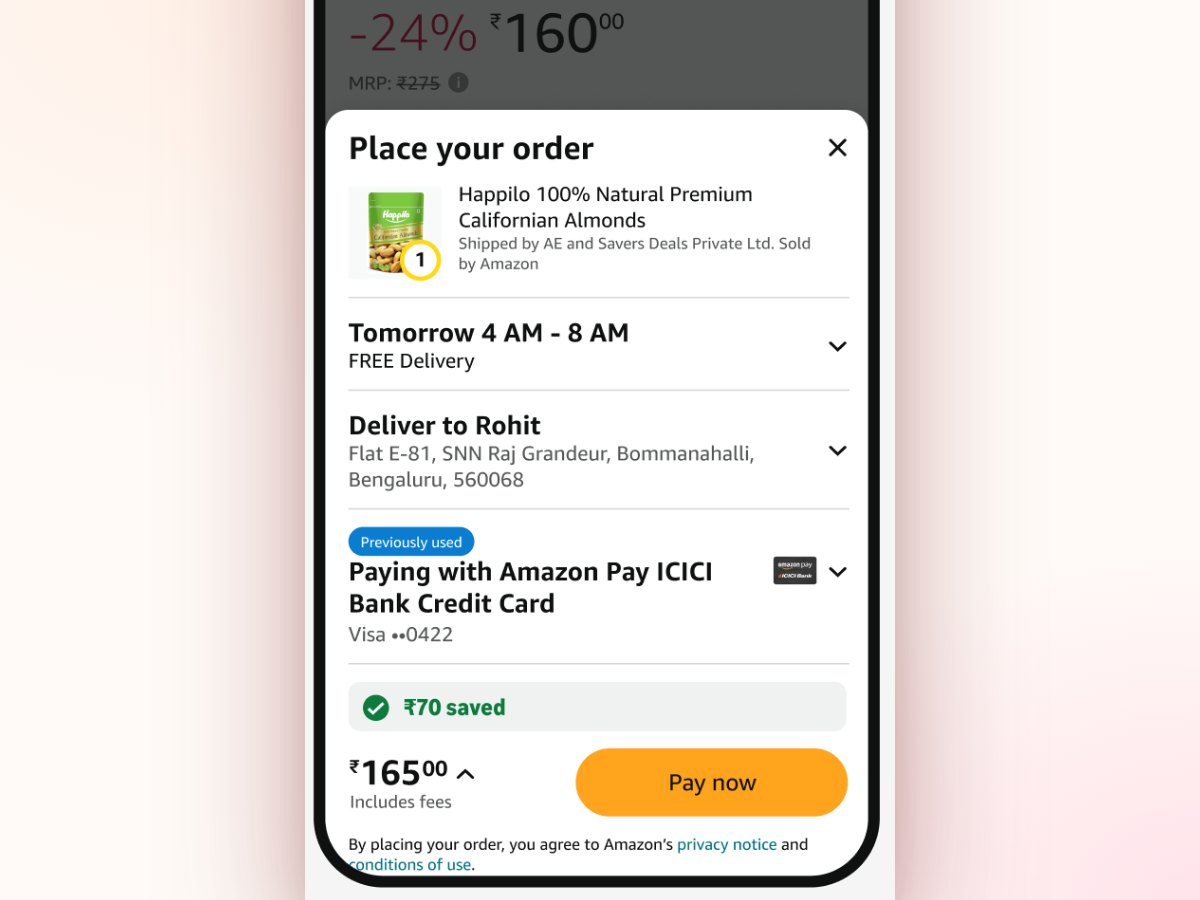
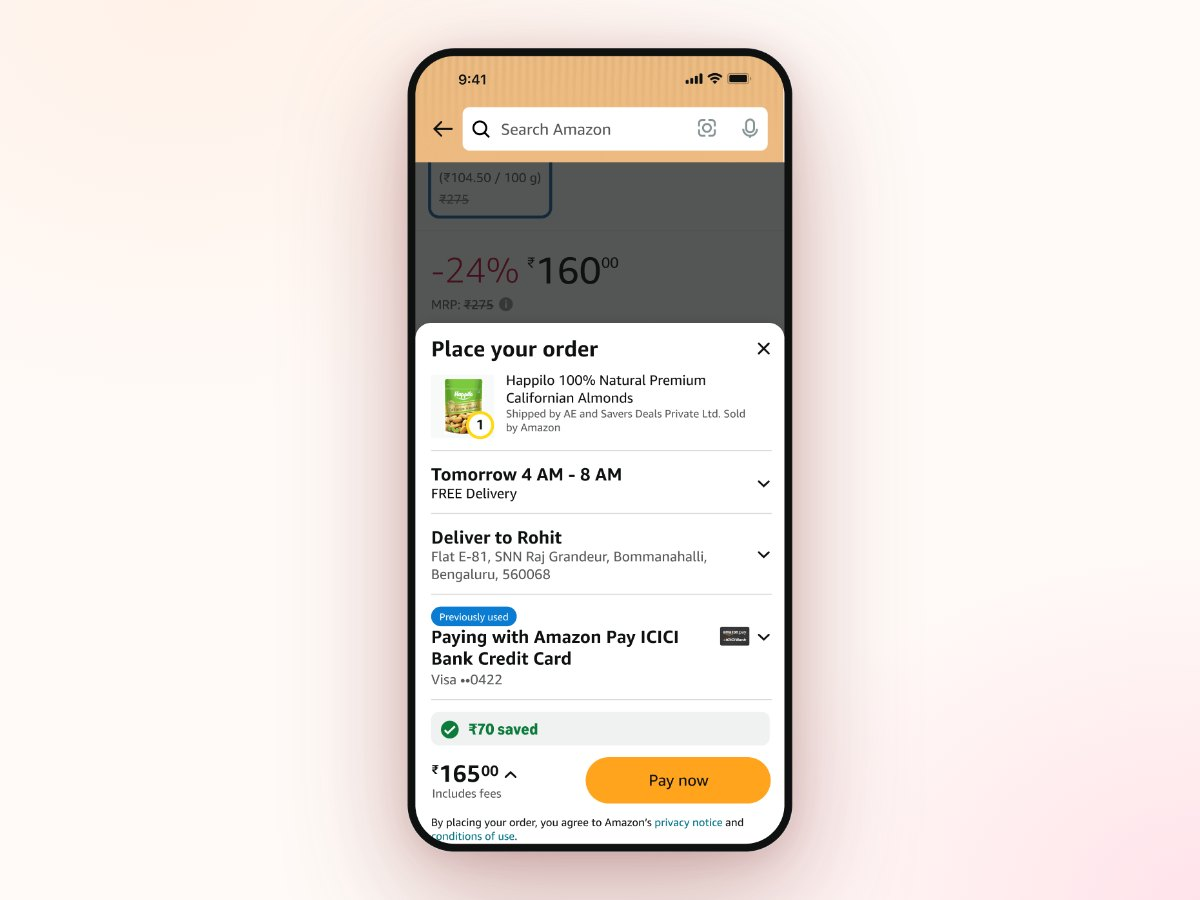
Review details card: full phone cut out cleanly, no white patch
Claude-Session: https://claude.ai/code/session_0148cmcCzJJyNgPkgSxbW31y

diff --git a/index.html b/index.html
@@ -246,7 +246,7 @@
               <h5>Review details and pay now</h5>
               <p>Address, payment and delivery date in one compact view, so customers can check everything at a glance and pay with confidence.</p>
             </figcaption>
-            <div class="fw-media"><div class="fw-art has-media"><img src="assets/work/checkout-sheet.jpg" alt="Place your order sheet with delivery, address, payment and Pay now" loading="lazy"></div></div>
+            <div class="fw-media"><div class="fw-art has-media"><img src="assets/work/checkout-sheet.jpg?v=2" alt="Place your order sheet with delivery, address, payment and Pay now" loading="lazy"></div></div>
           </figure>
         </div>
         <div class="project-foot">
